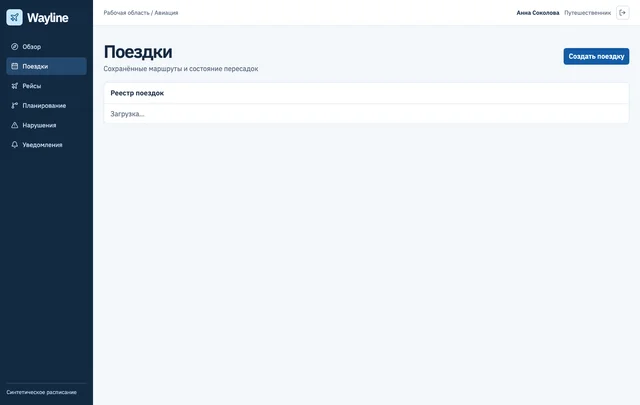
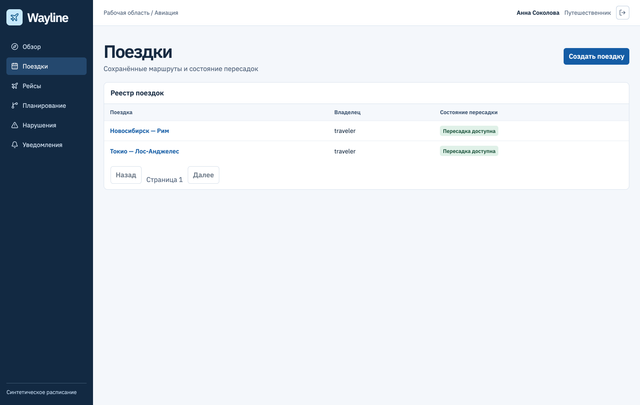
fix: recapture loaded Wayline registry and polish gallery controls

diff --git a/src/content.config.ts b/src/content.config.ts
@@ -20,6 +20,15 @@ const screen = z.object({
   variants: z
     .array(z.object({ path: z.string(), width: z.number().int().positive() }))
     .default([]),
+  capture: z
+    .object({
+      codeSha: z.string().regex(/^[a-f0-9]{40}$/),
+      viewport: z.array(z.number().int().positive()).length(2),
+      dpr: z.number().positive(),
+      date: z.string(),
+      evidence: z.string(),
+    })
+    .optional(),
   caption: bilingual.optional(),
 });
 

diff --git a/src/styles/studio.css b/src/styles/studio.css
@@ -662,8 +662,9 @@
 }
 .image-controls a {
   min-height: 42px;
-  display: inline-grid;
-  place-content: center;
+  display: inline-flex;
+  align-items: center;
+  gap: 0.25rem;
   white-space: nowrap;
   font-weight: 650;
   padding: 0.15rem 0.35rem;
